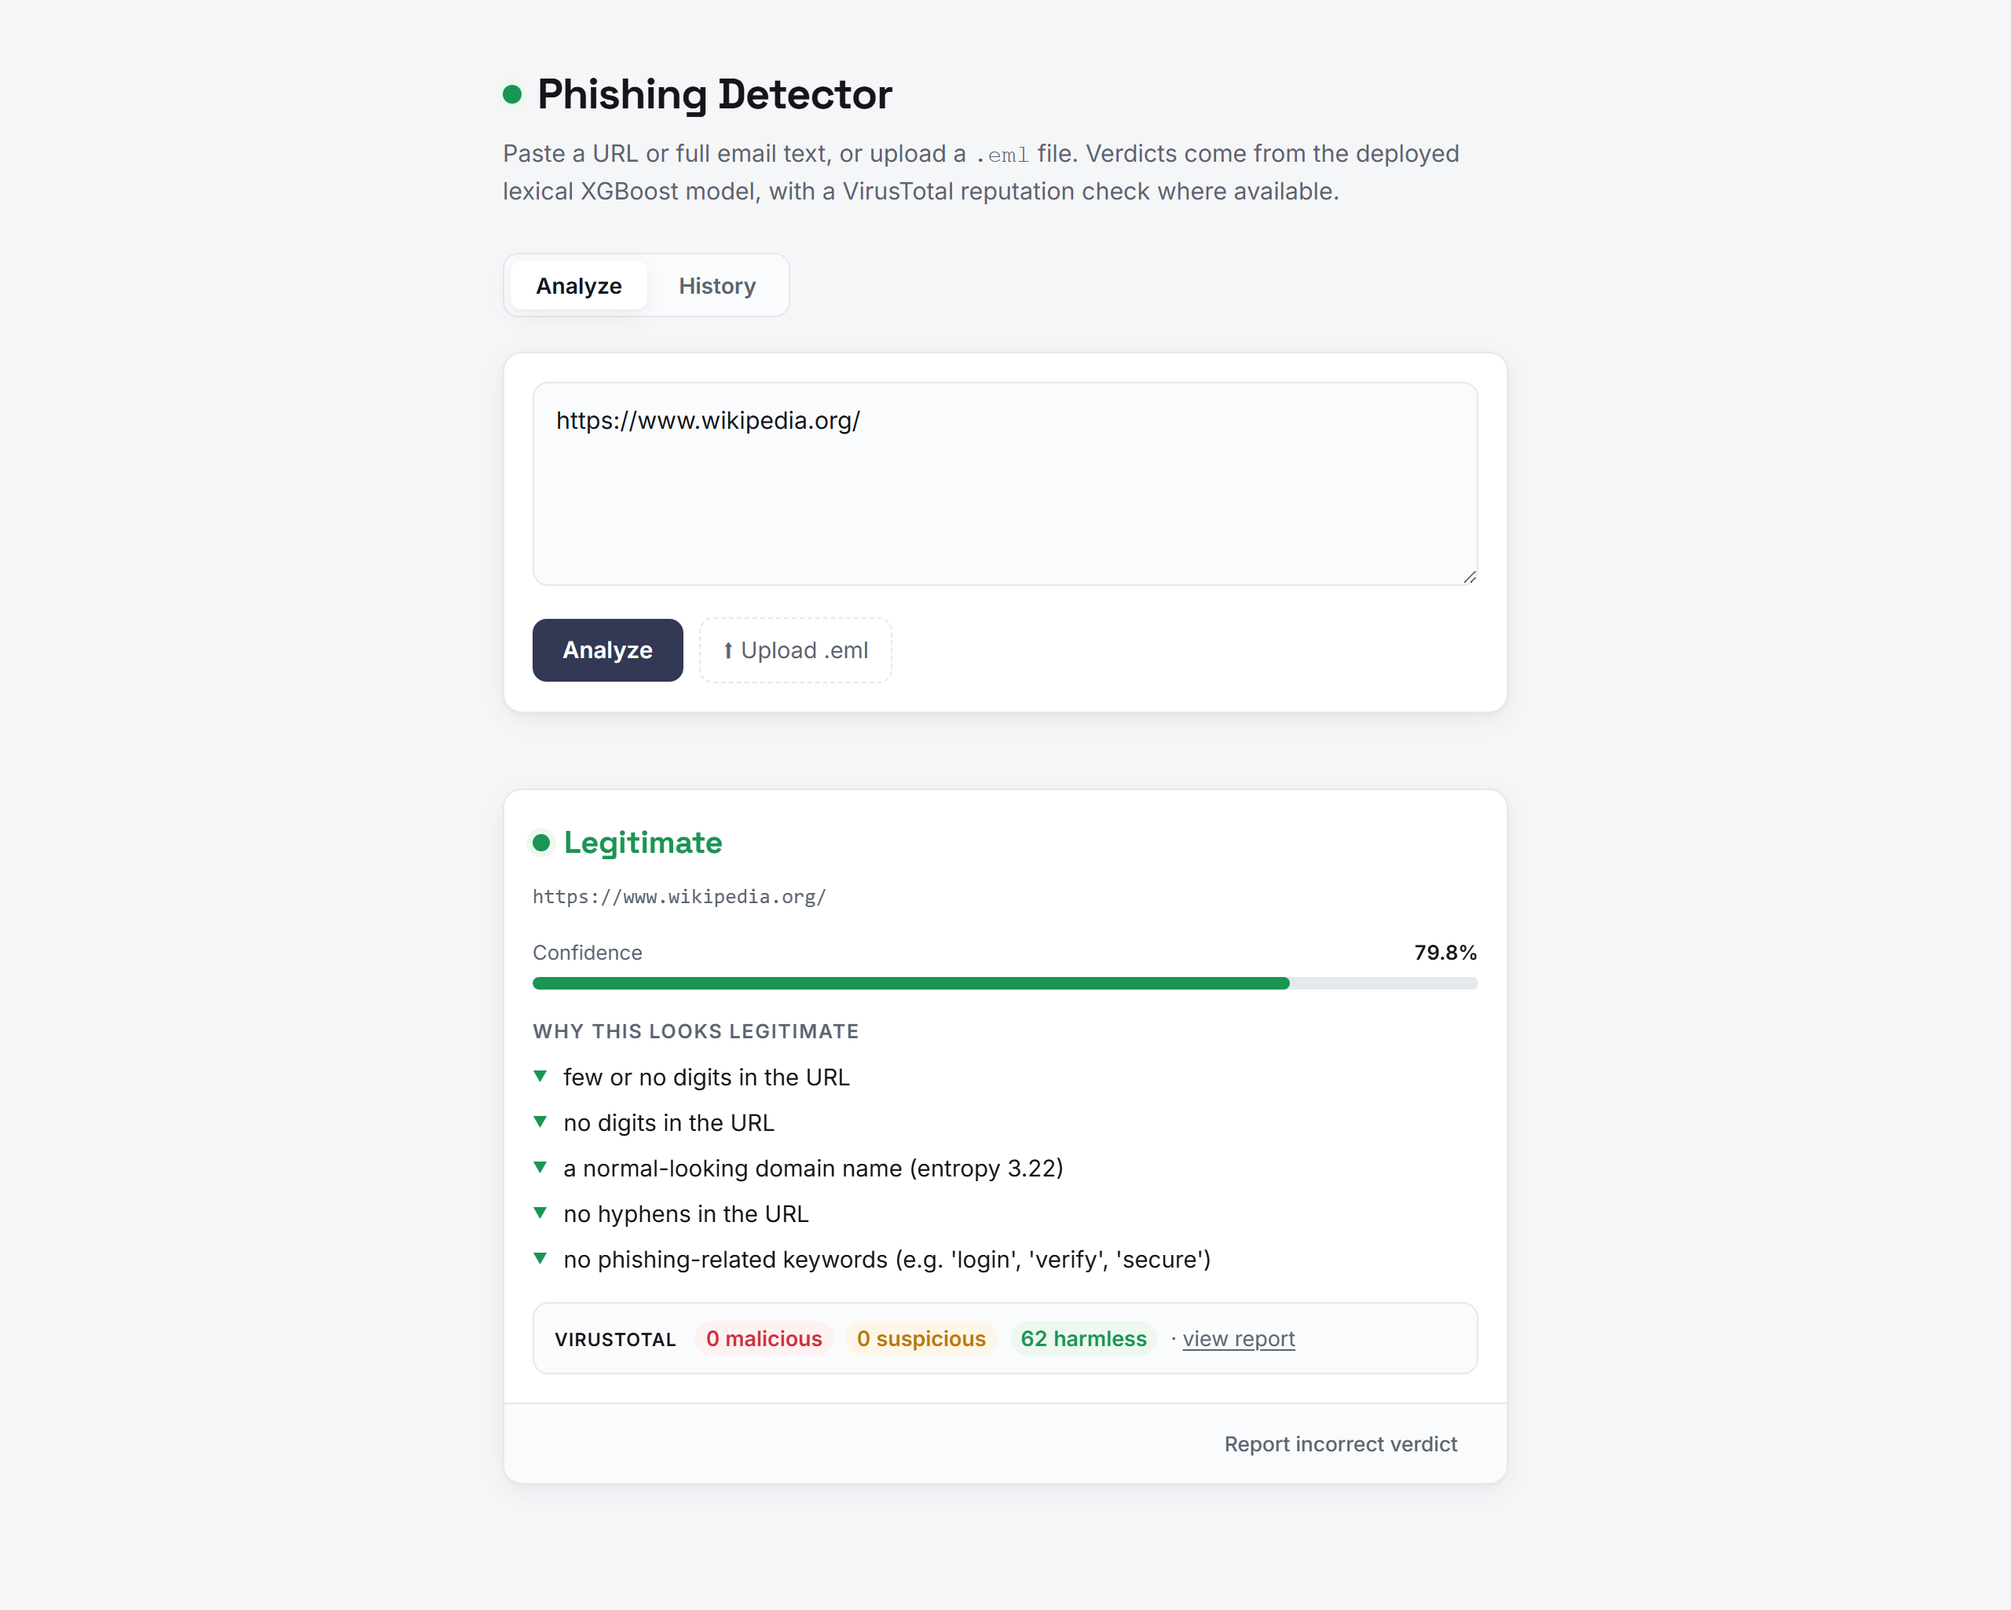
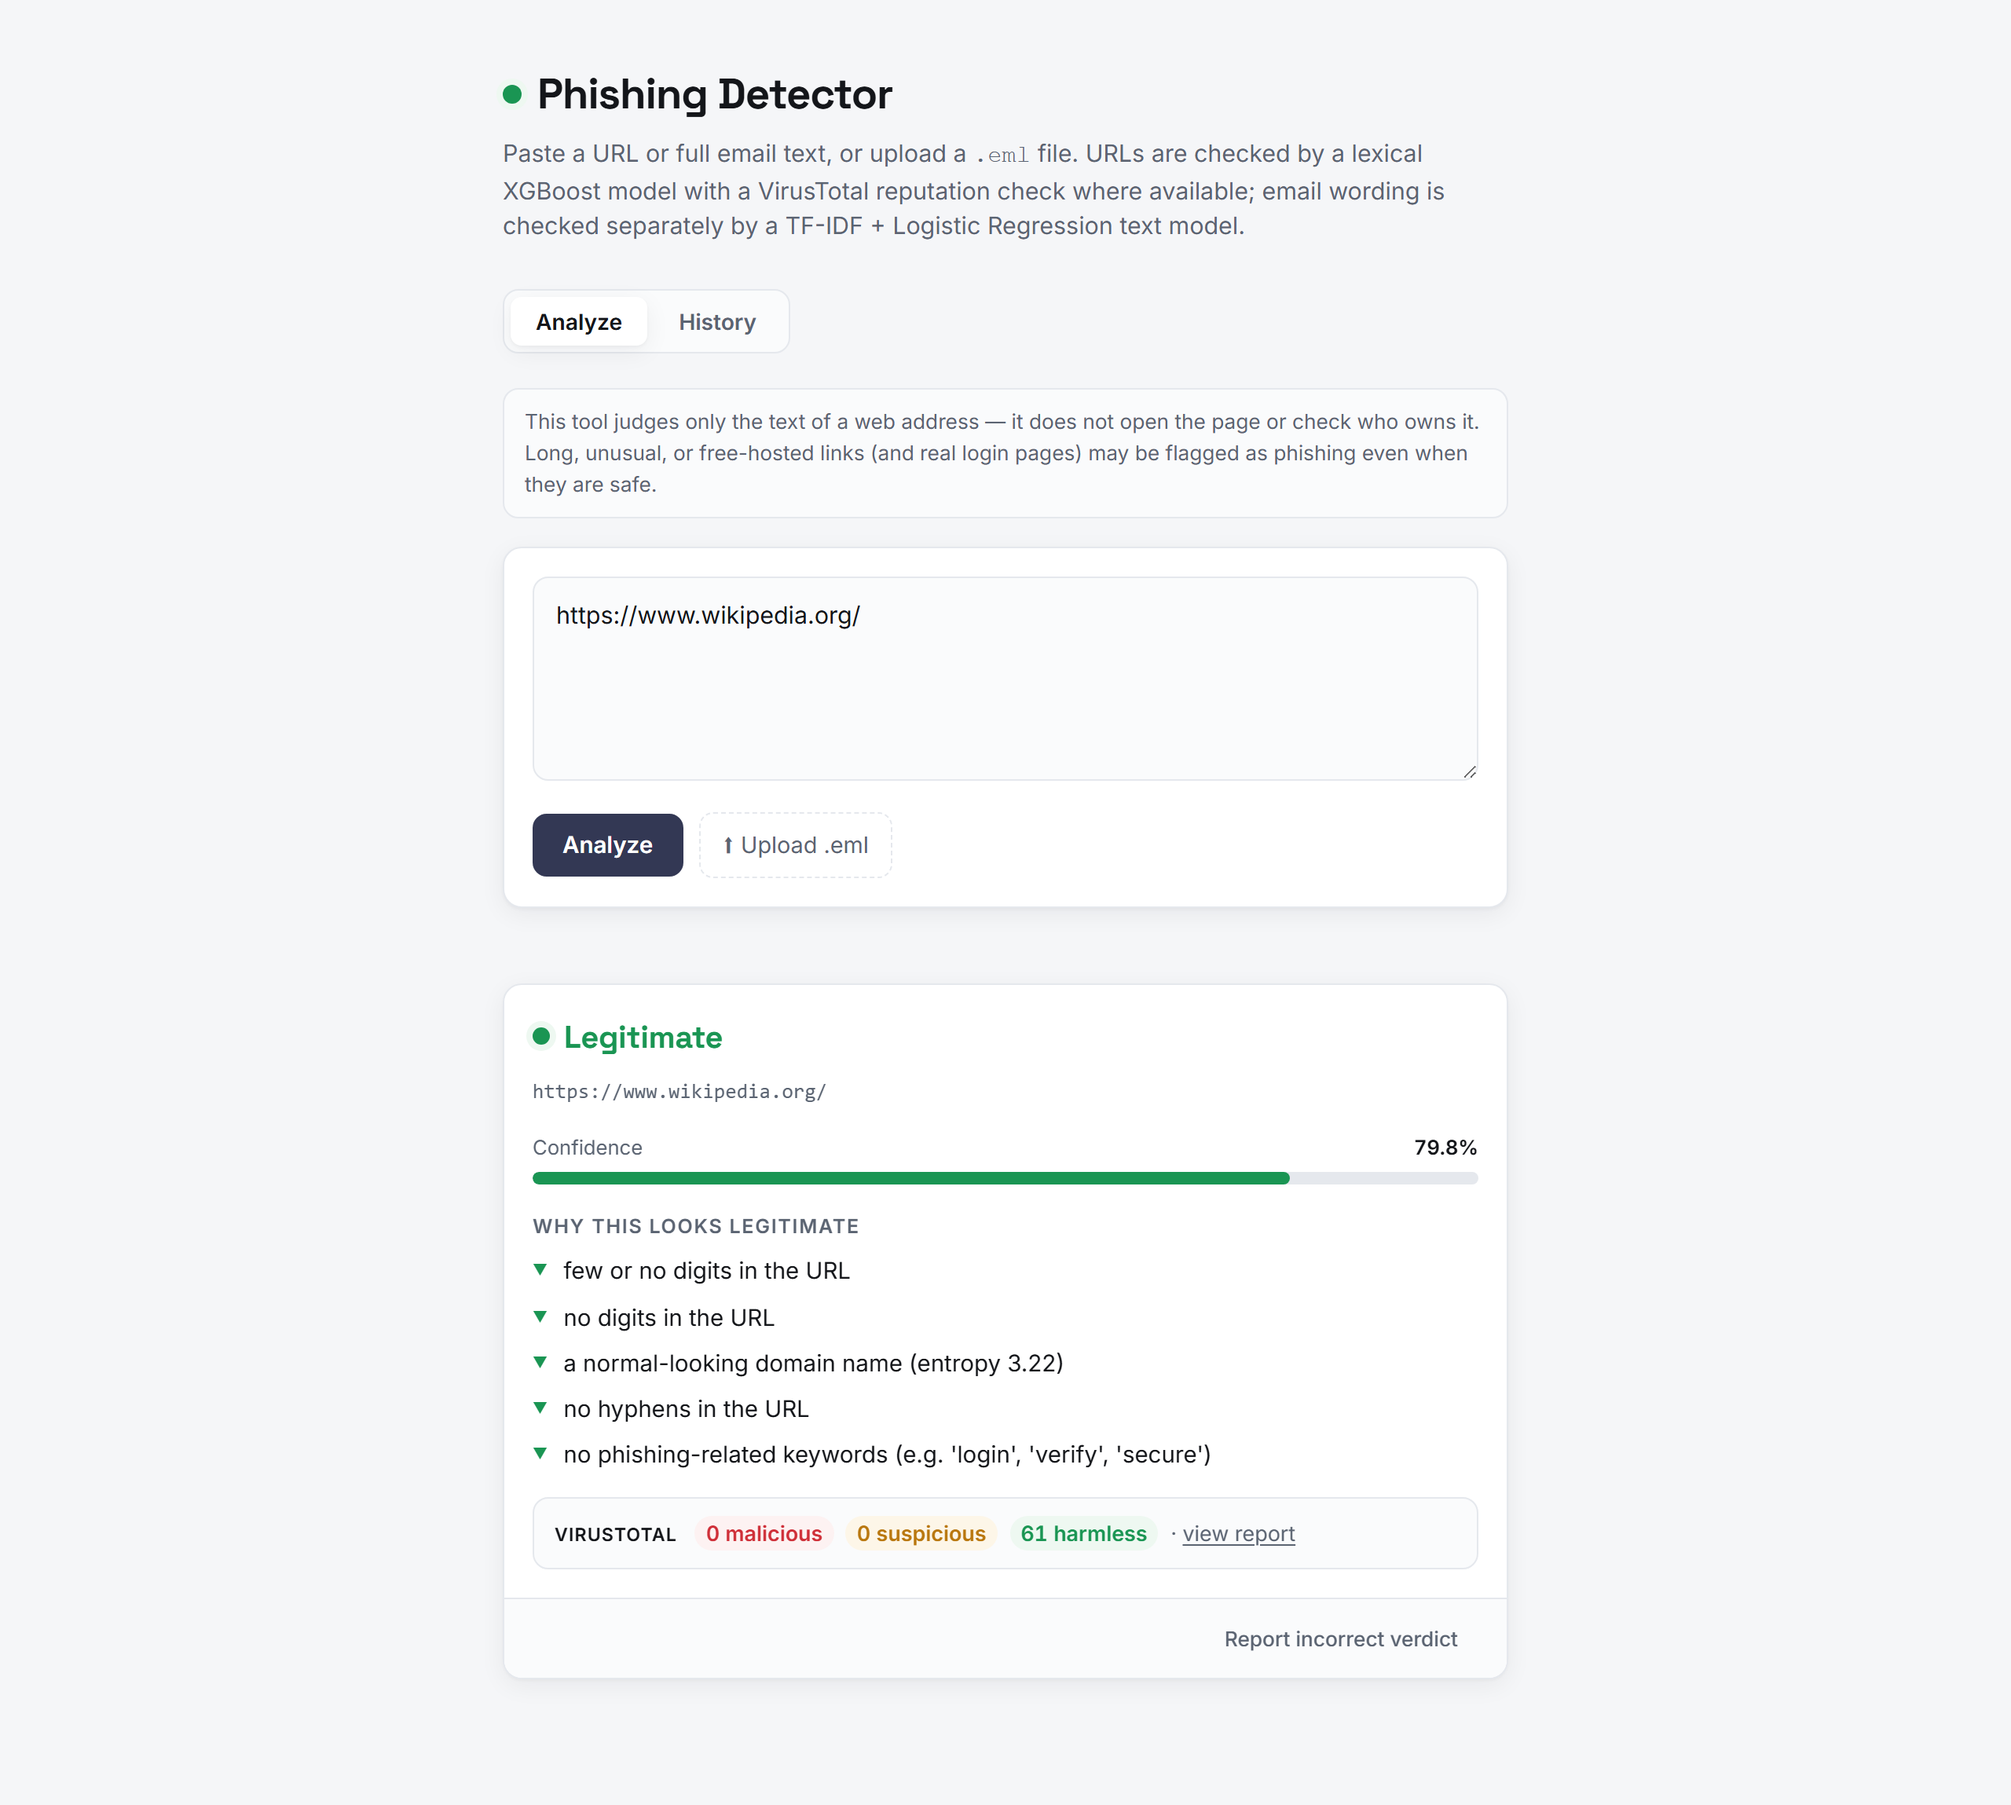
Add brand-mismatch and wording-only screenshot scenarios
Extend capture_screenshots.py with two new scenarios showing the features
added since the last capture: a brand-impersonation banner firing alongside
both models (Microsoft/secure-login.tk), and a phishing-wording verdict on
text with zero links — a case the URL model has nothing to check at all.
Regenerates all six screenshots so 01-04 reflect the current UI copy too.

diff --git a/docs/capture_screenshots.py b/docs/capture_screenshots.py
@@ -59,6 +59,36 @@ If you did not request this, secure your account here:
 Thank you,
 PayPal Security Team"""
 
+# Brand-mismatch showcase: claims Microsoft, links to a domain that isn't
+# Microsoft's — exercises all three signals (brand check, email wording,
+# URL model) at once, on a different brand than EMAIL_TEXT above.
+BRAND_MISMATCH_TEXT = """From: Microsoft Account Team <security@microsoft-alerts.com>
+Subject: Action required: unusual sign-in activity on your Microsoft account
+
+Dear Customer,
+
+We detected an unusual sign-in attempt on your Microsoft account from an
+unrecognized device in Lagos, Nigeria. To protect your account, please
+verify your identity immediately.
+
+If you do not confirm your identity within 24 hours, your account will be
+temporarily locked for your security.
+
+Verify your account now:
+http://microsoft-account-verify.secure-login.tk/confirm?user=88213
+
+Thank you for helping us keep your account secure.
+
+Microsoft Account Team"""
+
+# Wording-only showcase: phishing intent with NO link at all — a case the
+# URL model literally cannot see, and only the email-text model can catch.
+WORDING_ONLY_TEXT = """Congratulations! You have been selected to receive a free
+$500 gift card. This is a limited-time offer available only to a select
+number of recipients. To claim your reward, simply reply to this email with
+your full name, date of birth, and mailing address within 48 hours. Act now
+before this exclusive offer expires!"""
+
 
 def free_port() -> int:
     with socket.socket() as s:
@@ -149,6 +179,25 @@ def main() -> int:
             page.wait_for_timeout(600)
             page.screenshot(path=str(OUT / "04-history.png"), full_page=True)
             print("saved 04-history.png")
+
+            # 5 — brand-impersonation banner + email wording + URL, all three
+            # signals firing together on one input.
+            page.click("#tab-analyze")
+            page.fill("#input", "")
+            analyze(page, BRAND_MISMATCH_TEXT)
+            page.wait_for_selector(".brand-alert", timeout=20000)
+            page.screenshot(path=str(OUT / "05-brand-mismatch.png"), full_page=True)
+            print("saved 05-brand-mismatch.png")
+
+            # 6 — email wording alone: phishing intent with zero links, a
+            # case the URL model has nothing to check at all.
+            page.fill("#input", "")
+            page.fill("#input", WORDING_ONLY_TEXT)
+            page.click("#analyzeBtn")
+            page.wait_for_selector("#results .card .badge", timeout=20000)
+            page.wait_for_timeout(1000)
+            page.screenshot(path=str(OUT / "06-wording-only.png"), full_page=True)
+            print("saved 06-wording-only.png")
 
             browser.close()
     finally:
